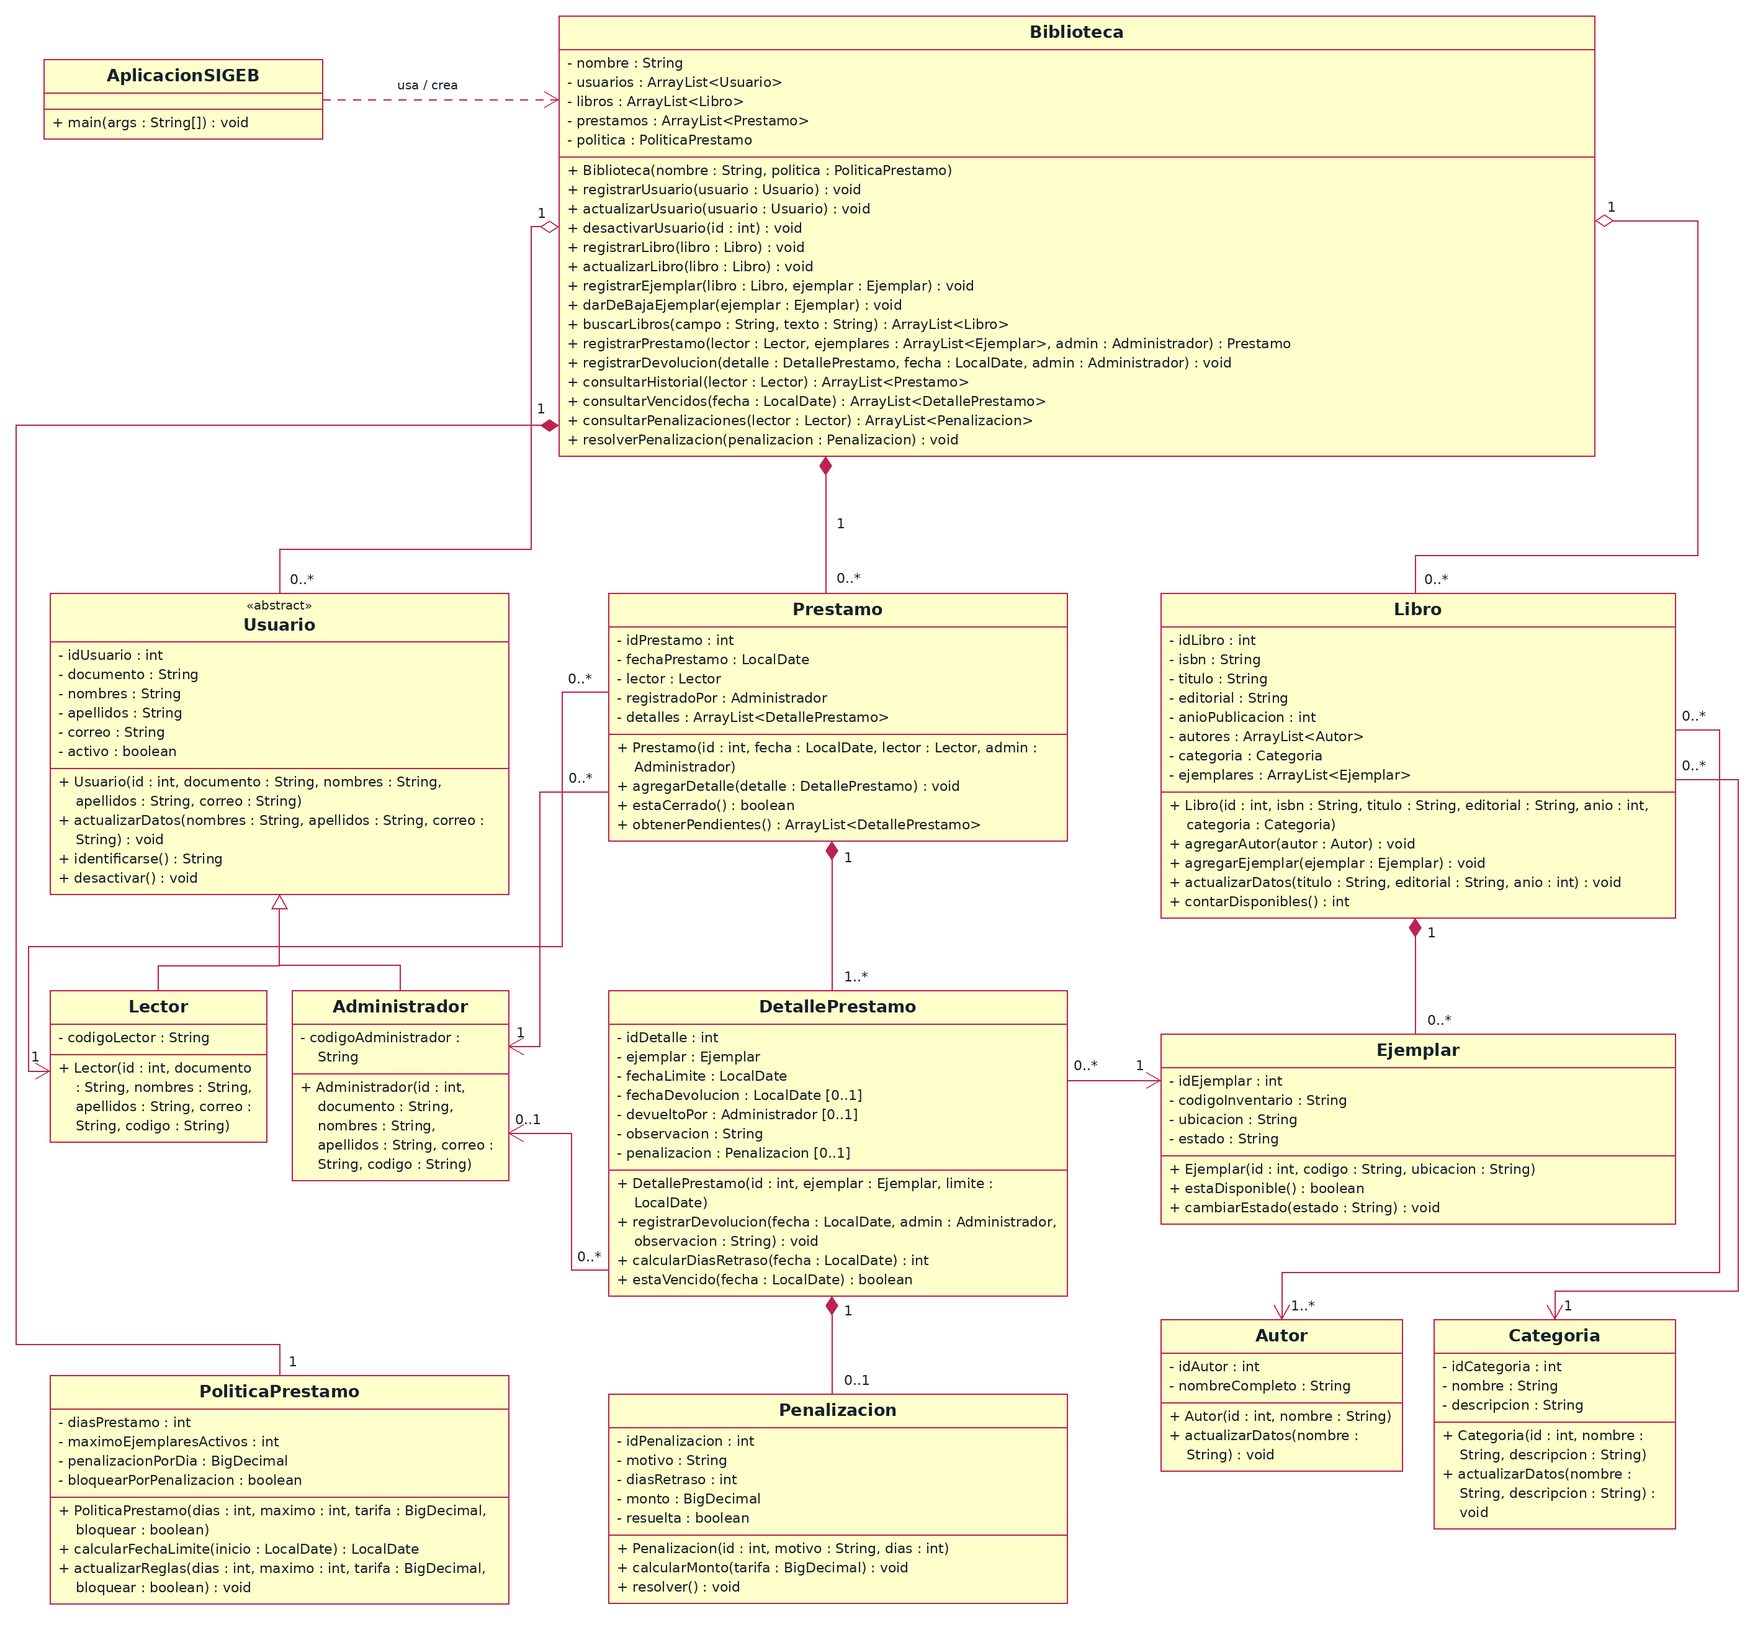
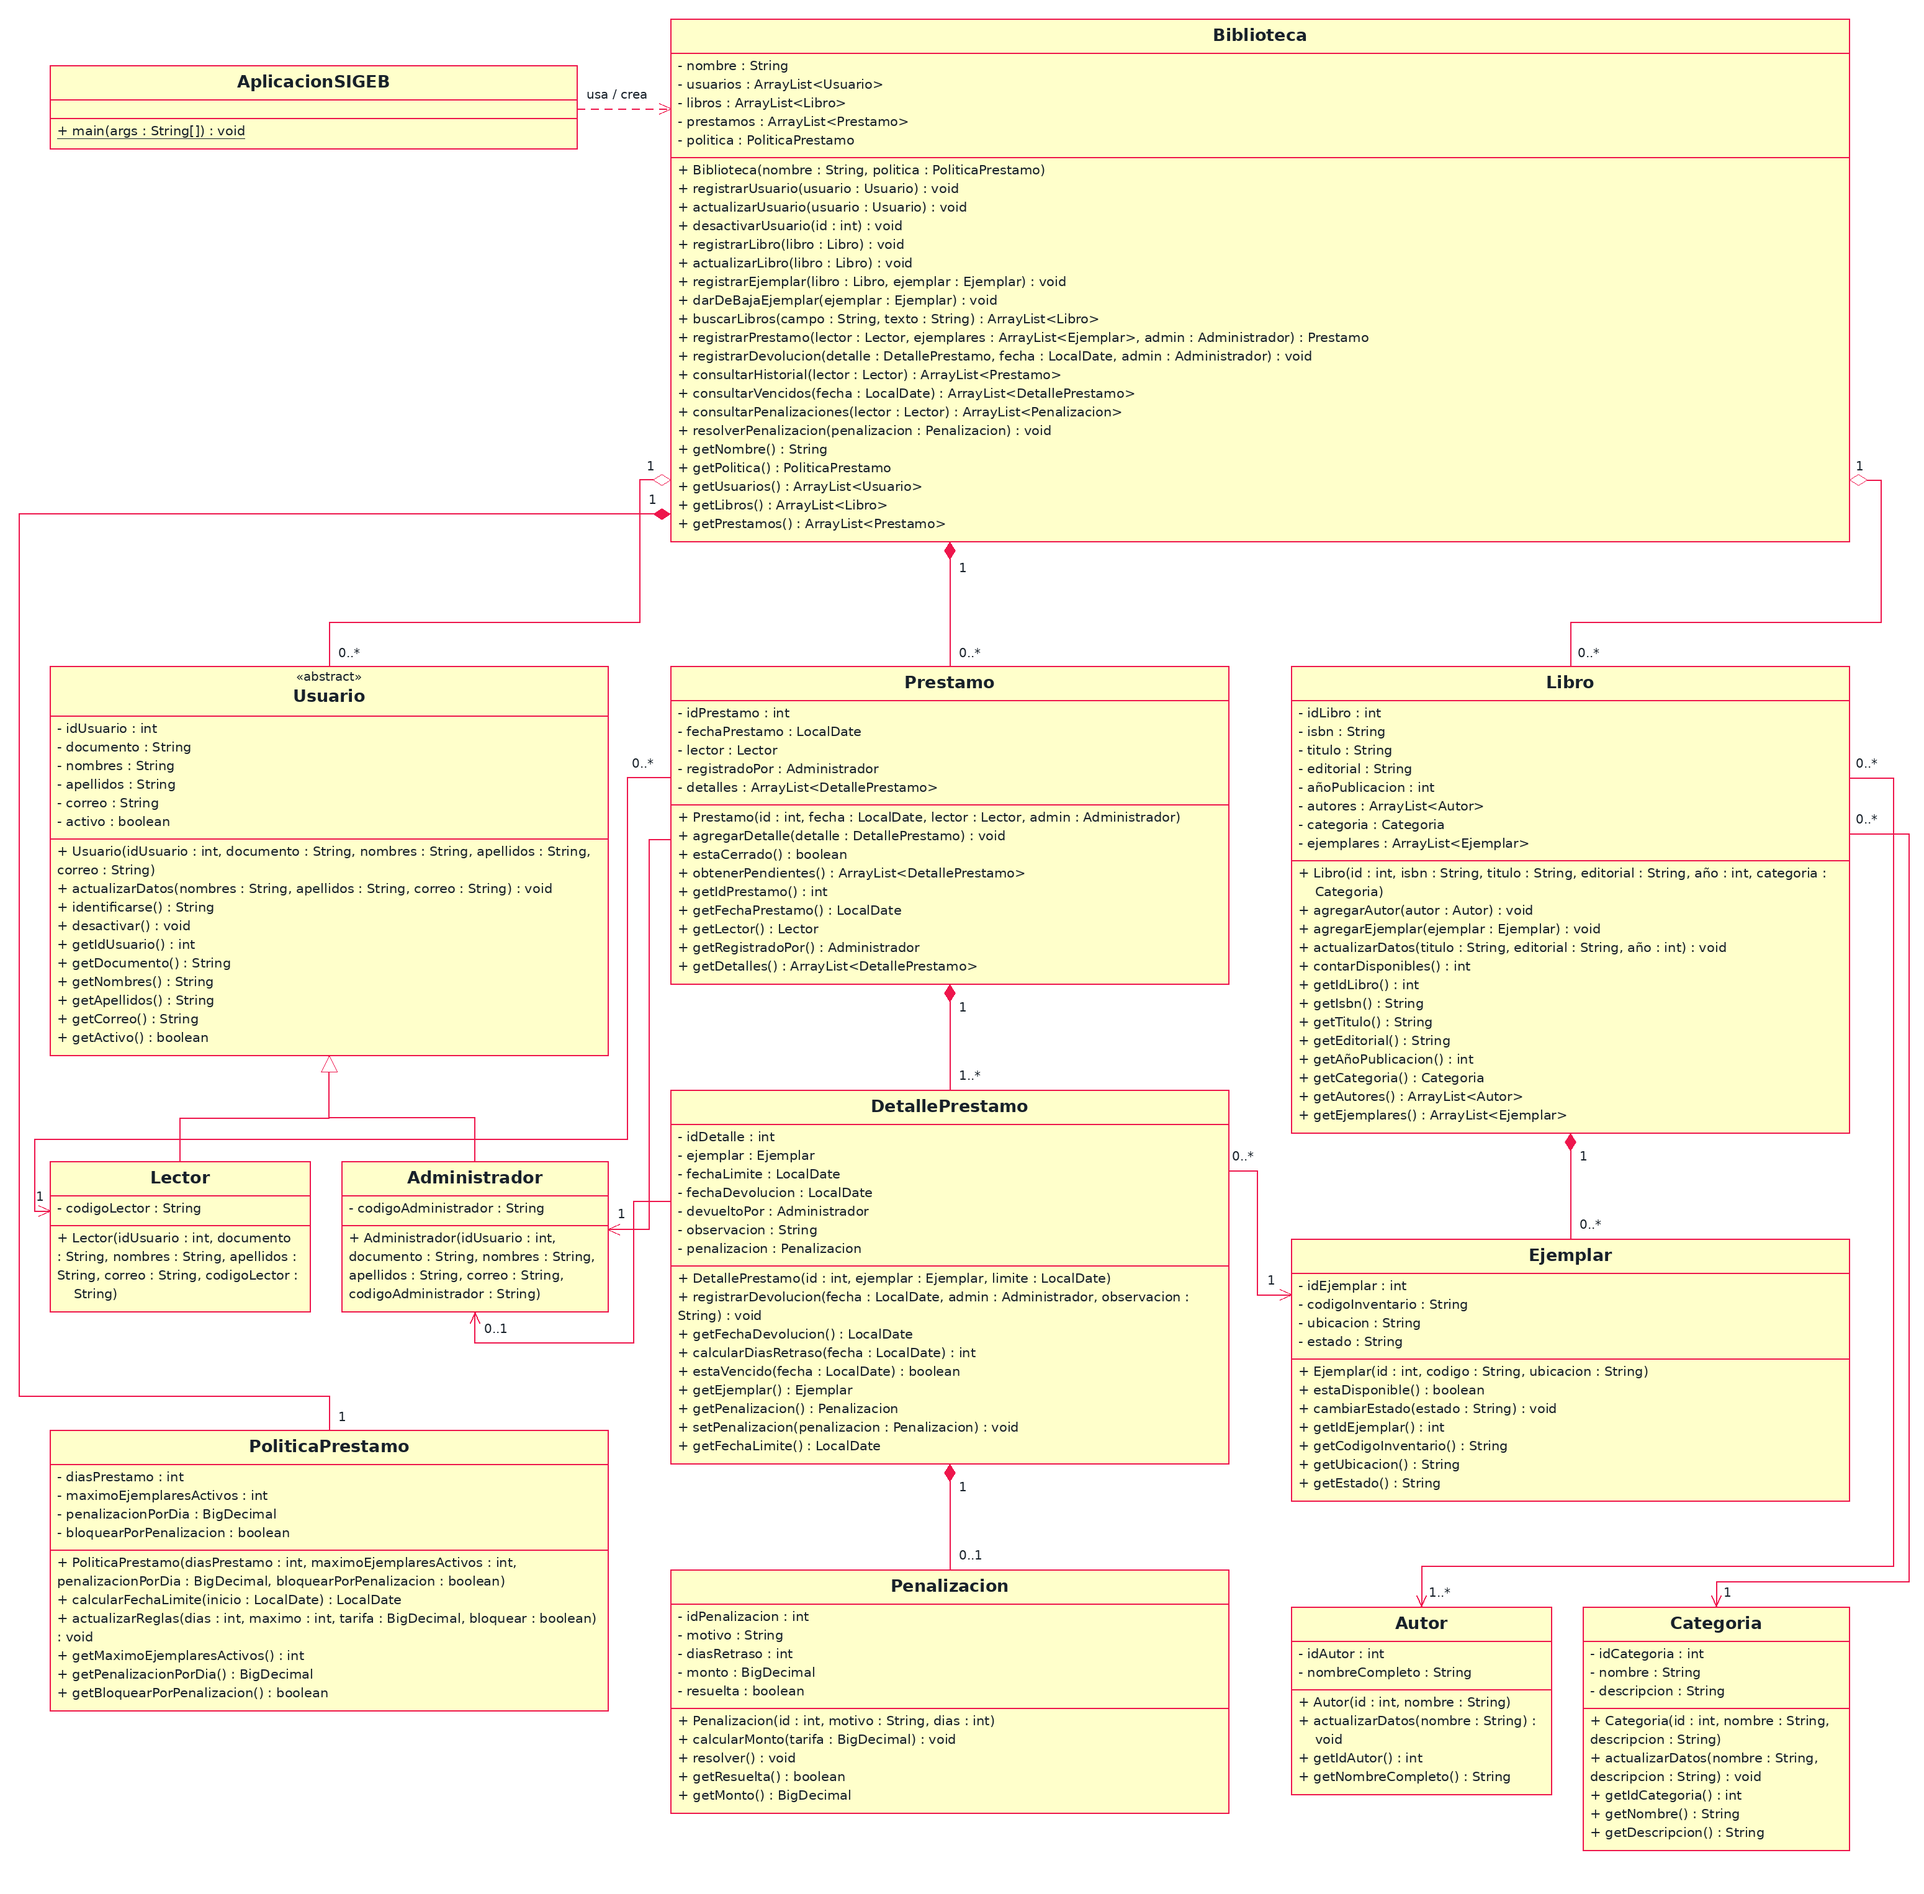
Actulizando README y UML

Changed region(s): [[0.0, 0.3399, 0.9986, 0.9889], [0.0312, 0.0, 0.9674, 0.309], [0.5617, 0.0, 0.6865, 0.0309]]

diff --git a/README.md b/README.md
@@ -2,15 +2,18 @@
 
 Proyecto académico que busca automatizar los procesos de una biblioteca: registro de usuarios y libros, búsqueda, préstamos y devoluciones, para mejorar la atención y la administración del catálogo.
 
-## Sprint 1
+## Sprint 2
 
-En este sprint se implementaron las clases principales del sistema siguiendo el diagrama UML y se preparó una demostración por consola.
+En este sprint se implementó la interfaz gráfica con Java Swing y se integraron las clases desarrolladas durante el primer sprint.
 
-El proyecto utiliza Java y almacena los datos en memoria durante la ejecución.
+Se incorporaron `Biblioteca`, `AplicacionSIGEB` y las ventanas para gestionar usuarios, catálogo, préstamos, devoluciones, penalizaciones y política de préstamos. Los módulos comparten una misma instancia de `Biblioteca` y utilizan `ActionListener` para responder a los botones.
+
+El proyecto utiliza Java y almacena los datos en memoria durante la ejecución. **Al cerrar la aplicación, los registros se pierden.** El guardado y la lectura de archivos se desarrollarán en el siguiente sprint.
 
 ## Requisitos
 
 - JDK 17 o superior.
+- Un entorno con escritorio gráfico para mostrar las ventanas Swing.
 - Una terminal o un editor compatible con Java.
 - Si se utiliza Visual Studio Code: Extension Pack for Java.
 
@@ -20,10 +23,10 @@ No se requieren bibliotecas externas.
 
 | Ubicación | Contenido |
 |---|---|
-| src/ | Clases Java y PruebaSIGEB.java |
-| SIGEB_UML.png | Diagrama de clases |
-| README.md | Descripción e instrucciones |
-| out/ | Archivos compilados; se genera al compilar |
+| `src/` | Clases del modelo, Biblioteca, AplicacionSIGEB y ventanas GUI. |
+| `SIGEB_UML.png` | Diagrama de clases actualizado. |
+| `README.md` | Descripción e instrucciones. |
+| `out/` | Archivos compilados; se genera al compilar. |
 
 ## Cómo ejecutar
 
@@ -52,17 +55,17 @@ Desde la raíz del proyecto:
 javac -encoding UTF-8 -d out src/*.java
 ```
 
-Este comando compila las clases de `src` y guarda los archivos `.class` en `out`.
+Este comando compila las clases de `src` y guarda los archivos `.class` en `out`. La carpeta `out` se crea automáticamente.
 
 Si no aparecen errores, la compilación finalizó correctamente.
 
-### 4. Ejecutar la prueba
+### 4. Ejecutar la aplicación
 
 ```bash
-java -cp out PruebaSIGEB
+java -cp out AplicacionSIGEB
 ```
 
-La consola mostrará ejemplos de usuarios, catálogo, préstamos, penalizaciones y devoluciones.
+Se abrirá la ventana principal de SIGEB, con acceso a **Usuarios**, **Catálogo e inventario** y **Préstamos y devoluciones**.
 
 Cada vez que se modifique el código, se debe volver a compilar antes de ejecutar.
 
@@ -70,29 +73,82 @@ Cada vez que se modifique el código, se debe volver a compilar antes de ejecuta
 
 1. Abre la carpeta `sigeb` con **Archivo > Abrir carpeta**.
 2. Comprueba que tengas instalado el JDK y Extension Pack for Java.
-3. Abre `src/PruebaSIGEB.java`.
+3. Abre `src/AplicacionSIGEB.java`.
 4. Pulsa **Run Java** sobre el método `main`.
-5. Revisa los resultados en la terminal.
+5. Utiliza los botones de la ventana principal para acceder a los módulos.
 
 También puedes compilar y ejecutar con los comandos anteriores desde la terminal integrada.
 
-## Demostración por consola
+## Cómo usar la aplicación
 
-La clase `PruebaSIGEB` realiza estas operaciones:
+### 1. Usuarios
 
-1. Crea un lector y un administrador.
-2. Crea un libro con autor, categoría y ejemplar.
-3. Muestra la cantidad de ejemplares disponibles.
-4. Crea un préstamo con un plazo de siete días.
-5. Marca el ejemplar como prestado.
-6. Calcula el retraso de una devolución realizada dos días después del límite.
-7. Ejecuta el cálculo y la resolución de una penalización.
-8. Registra la devolución y marca el ejemplar como disponible.
-9. Comprueba que el préstamo esté cerrado y sin detalles pendientes.
+1. Pulsa **Usuarios** en la ventana principal.
+2. Selecciona el tipo: lector o administrador.
+3. Completa ID, documento, nombres, apellidos, correo y código.
+4. Pulsa **Registrar** para guardar el usuario en memoria.
+5. Usa **Listar** para actualizar el listado.
 
-El ejemplo utiliza fechas fijas para obtener resultados reproducibles.
+Para actualizar un usuario, escribe su ID y los nuevos nombres, apellidos y correo; después pulsa **Actualizar**. Para desactivarlo, escribe su ID y pulsa **Desactivar**.
 
-Los cambios de estado del ejemplar se realizan explícitamente en la prueba. Los mensajes de penalización indican que se ejecutaron los métodos; el monto y el estado de resolución no se consultan porque todavía no tienen métodos públicos de acceso.
+Antes de realizar un préstamo deben existir un lector activo y un administrador activo.
+
+### 2. Catálogo e inventario
+
+1. Abre **Catálogo e inventario**.
+2. En la sección **Categorías**, registra una categoría.
+3. En **Autores**, registra el autor.
+4. En **Libros**, registra el libro con su categoría y asigna el autor.
+5. En **Ejemplares**, agrega una copia indicando ID, código de inventario y ubicación.
+
+El módulo también permite actualizar datos, buscar libros por título o ISBN y consultar el estado de los ejemplares. Una copia con préstamo pendiente debe devolverse antes de cambiar su estado manualmente.
+
+### 3. Registrar un préstamo
+
+1. Abre **Préstamos y devoluciones** y selecciona **Registrar préstamo**.
+2. Selecciona el lector y el administrador.
+3. Selecciona un ejemplar disponible y pulsa **Agregar ejemplar**.
+4. Repite la selección si deseas prestar más ejemplares.
+5. Pulsa **Registrar**.
+
+La fecha del préstamo será la actual y el límite se calculará con la política vigente. El sistema comprueba disponibilidad, ejemplares repetidos, máximo de préstamos activos y bloqueo por penalizaciones pendientes.
+
+### 4. Registrar una devolución
+
+1. Selecciona **Registrar devolución**.
+2. Elige el ejemplar pendiente y el administrador.
+3. Introduce la fecha en formato `AAAA-MM-DD`.
+4. Pulsa **Registrar devolución**.
+
+La fecha no puede ser anterior al préstamo ni posterior al día actual. La devolución vuelve a poner el ejemplar disponible y, si existe retraso, genera una penalización. El préstamo se cierra cuando todos sus ejemplares fueron devueltos.
+
+### 5. Consultas y penalizaciones
+
+- En **Consultar préstamos**, selecciona historial, pendientes o vencidos y pulsa **Actualizar** para refrescar la información.
+- En **Penalizaciones**, selecciona una penalización y pulsa **Resolver** para marcarla como resuelta.
+- El monto se calcula multiplicando los días de retraso por la tarifa vigente al registrar la devolución.
+
+### 6. Política de préstamos
+
+1. Abre **Política de préstamos**.
+2. Configura los días, el máximo de ejemplares y la tarifa diaria.
+3. Indica si se bloquearán nuevos préstamos por penalizaciones pendientes.
+4. Pulsa **Guardar**.
+
+Los días y el máximo deben ser positivos; la tarifa no puede ser negativa. Usa punto decimal, por ejemplo: `1.50`.
+
+## Ejemplo de uso completo
+
+1. Registrar un lector y un administrador.
+2. Registrar una categoría y un autor.
+3. Registrar un libro y asignarle el autor.
+4. Agregar un ejemplar disponible.
+5. Registrar un préstamo para el lector.
+6. Consultar el préstamo pendiente.
+7. Registrar la devolución.
+8. Comprobar que el ejemplar vuelve a estar disponible.
+
+Los formularios cargan sus selectores al abrirse. Si registras datos nuevos desde otra ventana, cierra y vuelve a abrir el formulario para actualizar las opciones. Los mensajes de validación de Biblioteca también pueden aparecer en la consola.
 
 ## Solución de problemas
 
@@ -100,16 +156,26 @@ Los cambios de estado del ejemplar se realizan explícitamente en la prueba. Los
 |---|---|
 | No se reconoce `javac` | Instalar un JDK y configurar su carpeta `bin` en PATH. |
 | No se encuentra `src/*.java` | Ubicar la terminal en la raíz del proyecto, donde está `src`. |
-| No se encuentra la clase `PruebaSIGEB` | Comprobar el nombre del archivo, compilar y ejecutar con `java -cp out PruebaSIGEB`. |
-| Se indica que falta el método `main` | Ejecutar `PruebaSIGEB`, que contiene el punto de entrada de la demostración. |
+| No se encuentra `AplicacionSIGEB` | Compilar y ejecutar con `java -cp out AplicacionSIGEB`. |
+| Se indica que falta el método `main` | Ejecutar `AplicacionSIGEB`, que inicia la aplicación. |
+| No aparecen lectores o administradores | Registrar usuarios activos y volver a abrir el formulario de préstamos. |
+| No aparecen ejemplares disponibles | Registrar libros y ejemplares antes de abrir el formulario. |
+| Los cambios no aparecen en una consulta | Pulsar **Actualizar** o volver a abrir la ventana. |
+| Los datos desaparecen al cerrar | En este sprint los datos solo se almacenan en memoria. |
 
 ## Próximo sprint
 
-- Implementar Biblioteca y AplicacionSIGEB.
-- Integrar los módulos de los tres integrantes.
-- Aplicar los límites de préstamos y bloqueos por penalización.
-- Coordinar automáticamente préstamos, devoluciones y estados de ejemplares.
-- Implementar la interfaz gráfica.
+El Sprint 3 se centrará en la entrada y salida de archivos para conservar la información entre ejecuciones.
+
+- Guardar y recuperar usuarios y política de préstamos.
+- Guardar y recuperar autores, categorías, libros y ejemplares.
+- Guardar y recuperar préstamos, devoluciones y penalizaciones.
+- Mantener las relaciones entre registros mediante sus IDs.
+- Evitar duplicados durante la carga.
+- Manejar archivos inexistentes y errores de lectura o escritura.
+- Verificar que los datos se mantengan al cerrar y abrir la aplicación.
+
+Se propone comenzar con archivos de texto utilizando `PrintWriter`, `FileWriter`, `Scanner` y `FileReader`, de acuerdo con lo trabajado en clase.
 
 ## Diagrama UML
 
